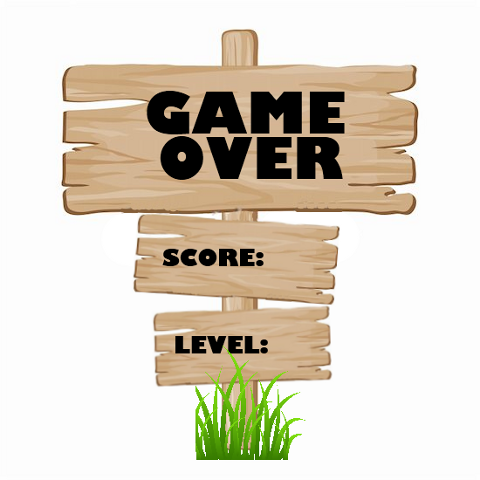
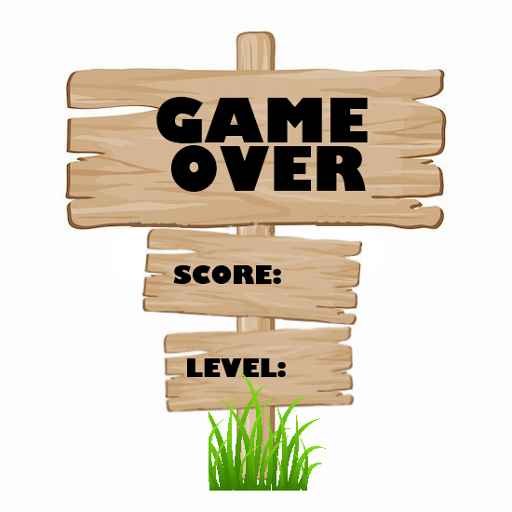
added an end game screen

diff --git a/ant-td/src/com/ai/ant/EndGameScreenRenderer.java b/ant-td/src/com/ai/ant/EndGameScreenRenderer.java
@@ -1,0 +1,74 @@
+package com.ai.ant;
+
+import com.badlogic.gdx.Gdx;
+import com.badlogic.gdx.graphics.OrthographicCamera;
+import com.badlogic.gdx.graphics.Texture;
+import com.badlogic.gdx.graphics.g2d.SpriteBatch;
+import com.badlogic.gdx.graphics.glutils.ShapeRenderer;
+
+public class EndGameScreenRenderer {
+	private static final float CAMERA_WIDTH = 10f;
+	private static final float CAMERA_HEIGHT = 10f; //unit control
+
+	private OrthographicCamera cam; //not sure 
+	
+	private int width;
+	private int height;
+	
+	private float ppuX;
+	private float ppuY;
+	
+	
+	ShapeRenderer debugRenderer = new ShapeRenderer();
+	SpriteBatch batch = new SpriteBatch();
+	private Texture logoTexture;
+
+	public EndGameScreenRenderer()
+	{
+		//this.endGame = endGame;
+		this.cam = new OrthographicCamera(50,50);
+		this.cam.position.set(25, 25, 0);
+		this.cam.update();
+		loadTextures();
+		batch = new SpriteBatch();
+	}
+	
+	public void render()
+	{
+
+		float p = (float) Gdx.graphics.getWidth();
+		
+		batch.begin();
+		//loadLogo();
+		batch.draw(logoTexture, 0, 0, 640, 480);
+		//Gdx.app.log("into", "rendering");
+
+		batch.end();
+	}
+	
+	public EndGameScreenRenderer getRenderer()
+	{
+		return this;
+	}
+	
+	
+//	public void loadLogo() {
+//		Character logo = endGame.getLogo();
+//		batch.draw(logoTexture, logo.getPosition().x * ppuX, logo.getPosition().y * ppuY, logo.SIZE * ppuX, logo.SIZE * ppuY);
+//	}
+	
+	public void loadTextures() {
+		logoTexture = new Texture(Gdx.files.internal("GameOverScreen.png"));
+		Gdx.app.log("into", "loaded texture");
+
+	}
+	
+	
+	public void setSize(int w, int h) {
+		this.width = w;
+		this.height = h;
+		ppuX = (float) width/ CAMERA_WIDTH;
+		ppuY = (float) height/ CAMERA_HEIGHT;
+	}
+}
+

diff --git a/ant-td/src/com/ai/ant/WorldController.java b/ant-td/src/com/ai/ant/WorldController.java
@@ -5,6 +5,7 @@ import java.util.HashMap;
 import java.util.Map;
 
 import com.ai.ant.Character.State;
+import com.badlogic.gdx.Game;
 import com.badlogic.gdx.Gdx;
 import com.badlogic.gdx.math.Intersector;
 import com.badlogic.gdx.math.Rectangle;
@@ -24,6 +25,7 @@ public class WorldController {
 	private Menu menu;
 	int selection;
 	int side; // 0 means left side clickable, 1 means right side clickable
+	Game g;
 
 	ArrayList<Bullet> tempBullet = new ArrayList<Bullet>();
 
@@ -37,7 +39,7 @@ public class WorldController {
 		keys.put(Keys.A, false);
 	};
 
-	public WorldController(World world, WorldRenderer renderer) {
+	public WorldController(World world, WorldRenderer renderer, Game g) {
 		this.world = world;
 		this.character = world.getCharacter();
 		this.wall = world.getWall();
@@ -45,6 +47,7 @@ public class WorldController {
 		this.renderer = renderer.getRenderer();
 		side = 0;
 		clicked = null;
+		this.g = g;
 	}
 
 	// pressed controls
@@ -311,7 +314,7 @@ public class WorldController {
 							&& (tempPos.y > (tempTowerPos.y - bs))
 							&& (tempPos.x < (tempTowerPos.x + bs))
 							&& (tempPos.y < (tempTowerPos.y + bs))) {
-						Gdx.app.log("Collision", "Collided!!!");
+						//Gdx.app.log("Collision", "Collided!!!");
 						Vector2 newPos = tempPos.add(new Vector2(bs, 0));
 						Mob replacement = new Mob(newPos, world);
 						world.mobList.remove(i);
@@ -395,6 +398,10 @@ public class WorldController {
 			Tower tower = new spawnTower(new Vector2(Gdx.input.getX(),
 					480 - Gdx.input.getY()), world);
 			world.placeTower(tower);
+		} else if (type == 0)
+		{
+			Gdx.app.log("quit", "Trying to quit");
+			g.setScreen(new EndGameScreen());
 		}
 	}
 	

diff --git a/ant-td/src/com/ai/ant/EndGameScreen.java b/ant-td/src/com/ai/ant/EndGameScreen.java
@@ -1,0 +1,84 @@
+package com.ai.ant;
+
+import com.badlogic.gdx.Gdx;
+import com.badlogic.gdx.Screen;
+import com.badlogic.gdx.graphics.GL10;
+import com.badlogic.gdx.math.Vector2;
+
+public class EndGameScreen implements Screen {
+	
+	private Character logo; //character but really just a default template
+	private EndGameScreen endScreen;
+	private EndGameScreenRenderer renderer;
+	private int height, width;
+	
+	public EndGameScreen()
+	{
+		
+	}
+	
+	public void createWorld()
+	{
+		Gdx.app.log("intro", "inside the createWorld method");
+		logo = new Character(new Vector2(25,25));
+	}
+	
+	
+	public Character getLogo() {
+		return logo;
+	}
+
+	@Override
+	public void render(float delta) {
+		Gdx.gl.glClearColor(1.0f, 1.0f, 1.0f, 1);
+		Gdx.gl.glClear(GL10.GL_COLOR_BUFFER_BIT);
+		
+		//for when we have sprites
+		
+		renderer.render();		
+	}
+
+	@Override
+	public void resize(int width, int height) {
+		// TODO Auto-generated method stub
+		this.width = width;
+		this.height = height;
+	}
+
+	@Override
+	public void show() {
+		// TODO Auto-generated method stub
+
+		
+		//endScreen = new EndGameScreen();
+		renderer = new EndGameScreenRenderer();
+		
+		//Gdx.input.setInputProcessor(this);
+		
+		
+	}
+
+	@Override
+	public void hide() {
+		// TODO Auto-generated method stub
+		
+	}
+
+	@Override
+	public void pause() {
+		// TODO Auto-generated method stub
+		
+	}
+
+	@Override
+	public void resume() {
+		// TODO Auto-generated method stub
+		
+	}
+
+	@Override
+	public void dispose() {
+		// TODO Auto-generated method stub
+		
+	}
+}

diff --git a/ant-td/src/com/ai/ant/WorldRenderer.java b/ant-td/src/com/ai/ant/WorldRenderer.java
@@ -45,6 +45,7 @@ public class WorldRenderer {
 	private Texture basicTower, slowTower, stunTower, splashTower, conversionTower, spawnTower, puddle;
 	private Texture basicBullet;
 	private Texture menuBackground;
+	private Texture quitButton;
 	
 	Map<Integer, Texture> towerMapTexture = new HashMap<Integer, Texture>();
 	
@@ -98,9 +99,7 @@ public class WorldRenderer {
 		basicBullet = new Texture(Gdx.files.internal("basicBullet.png"));
 		
 		menuBackground= new Texture(Gdx.files.internal("woodMenuBackground.png"));
-		//towerMapTexture.put(3, stunTower); //no class for this yet
-		
-		
+		quitButton= new Texture(Gdx.files.internal("quit.png"));	
 		
 	}
 	
@@ -232,7 +231,7 @@ public class WorldRenderer {
 	
 	public void buildTextureMap() {
 		
-		//towerMapTexture.put(0, quit);
+		towerMapTexture.put(0, quitButton);
 		towerMapTexture.put(1, basicTower);
 		towerMapTexture.put(2, slowTower); //no class made for this yet
 		towerMapTexture.put(3, stunTower); //no class for this yet

diff --git a/ant-td/src/com/ai/ant/GameScreen.java b/ant-td/src/com/ai/ant/GameScreen.java
@@ -1,5 +1,6 @@
 package com.ai.ant;
 
+import com.badlogic.gdx.Game;
 import com.badlogic.gdx.Gdx;
 import com.badlogic.gdx.Input.Keys;
 import com.badlogic.gdx.InputProcessor;
@@ -14,6 +15,11 @@ public class GameScreen implements Screen, InputProcessor {
 	private WorldController controller;
 	
 	private int width, height;
+	private Game g;
+	
+	public GameScreen(Game g) {
+		this.g = g;
+	}
 	
 	@Override
 	public void resize(int width, int height) {
@@ -52,7 +58,7 @@ public class GameScreen implements Screen, InputProcessor {
 	public void show() {
 		world = new World();
 		renderer = new WorldRenderer(world);
-		controller = new WorldController(world, renderer);
+		controller = new WorldController(world, renderer, g);
 		Gdx.input.setInputProcessor(this);
 	
 	}
@@ -145,8 +151,5 @@ public class GameScreen implements Screen, InputProcessor {
 	}
 	
 	// input stuff..mouse click here maybe?
-	
-	
-	
 	
 }

diff --git a/ant-td/src/com/ai/ant/Menu.java b/ant-td/src/com/ai/ant/Menu.java
@@ -8,19 +8,20 @@ public class Menu {
 
 	ArrayList<Button> buttons;
 	
-	
 	public Menu() {
 		//make new buttons
 
 		buttons = new ArrayList<Button>();
 		
-		buttons.add(new Button(new Vector2(4,4), 2.0f, 2.0f, 1)); //make this pixel coords
+		buttons.add(new Button(new Vector2(2,48), 2.0f, 2.0f, 0));
+		buttons.add(new Button(new Vector2(4,4), 2.0f, 2.0f, 1));
 		buttons.add(new Button(new Vector2(4,8), 2.0f, 2.0f, 2));
 		buttons.add(new Button(new Vector2(4,12), 2.0f, 2.0f, 3));
 		buttons.add(new Button(new Vector2(4,16), 2.0f, 2.0f, 4));
 		buttons.add(new Button(new Vector2(4,20), 2.0f, 2.0f, 5));
 		buttons.add(new Button(new Vector2(4,24), 2.0f, 2.0f, 6));
 		buttons.add(new Button(new Vector2(4,28), 2.0f, 2.0f, 7));
+
 		
 	}
 	

diff --git a/ant-td/src/com/ai/ant/MenuScreen.java b/ant-td/src/com/ai/ant/MenuScreen.java
@@ -90,7 +90,7 @@ public class MenuScreen implements Screen, InputProcessor  {
 		
 		renderer.render();
 		if(Gdx.input.justTouched())
-            g.setScreen(new GameScreen());
+            g.setScreen(new GameScreen(g));
 
 		
 	}
